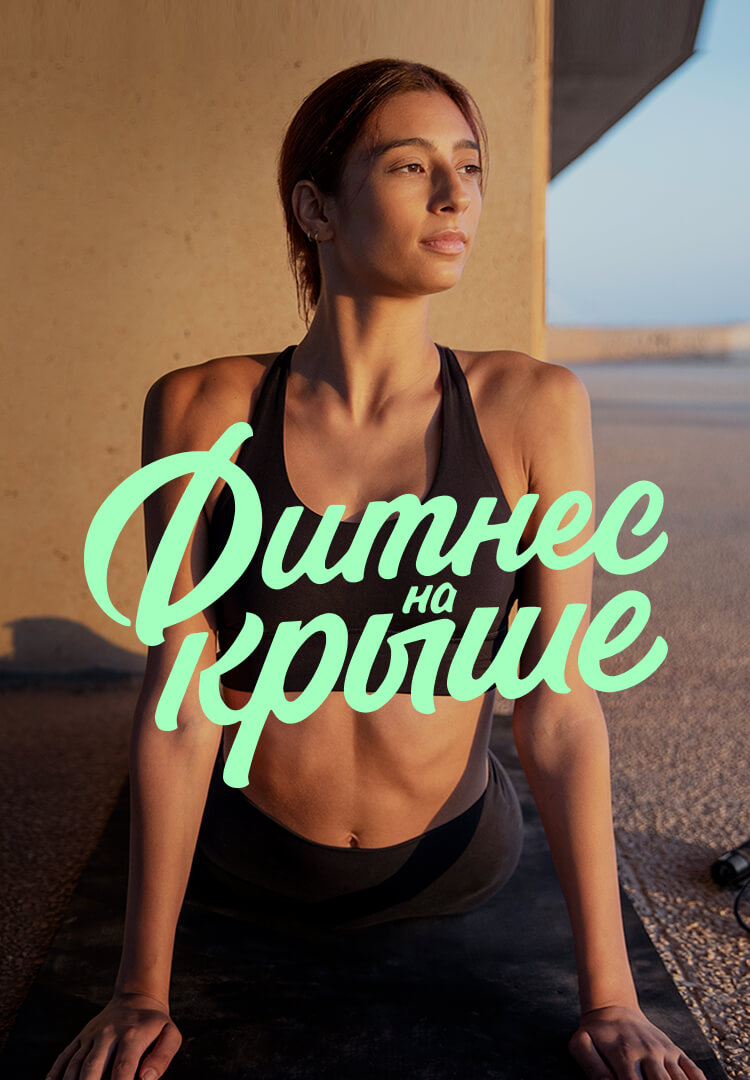
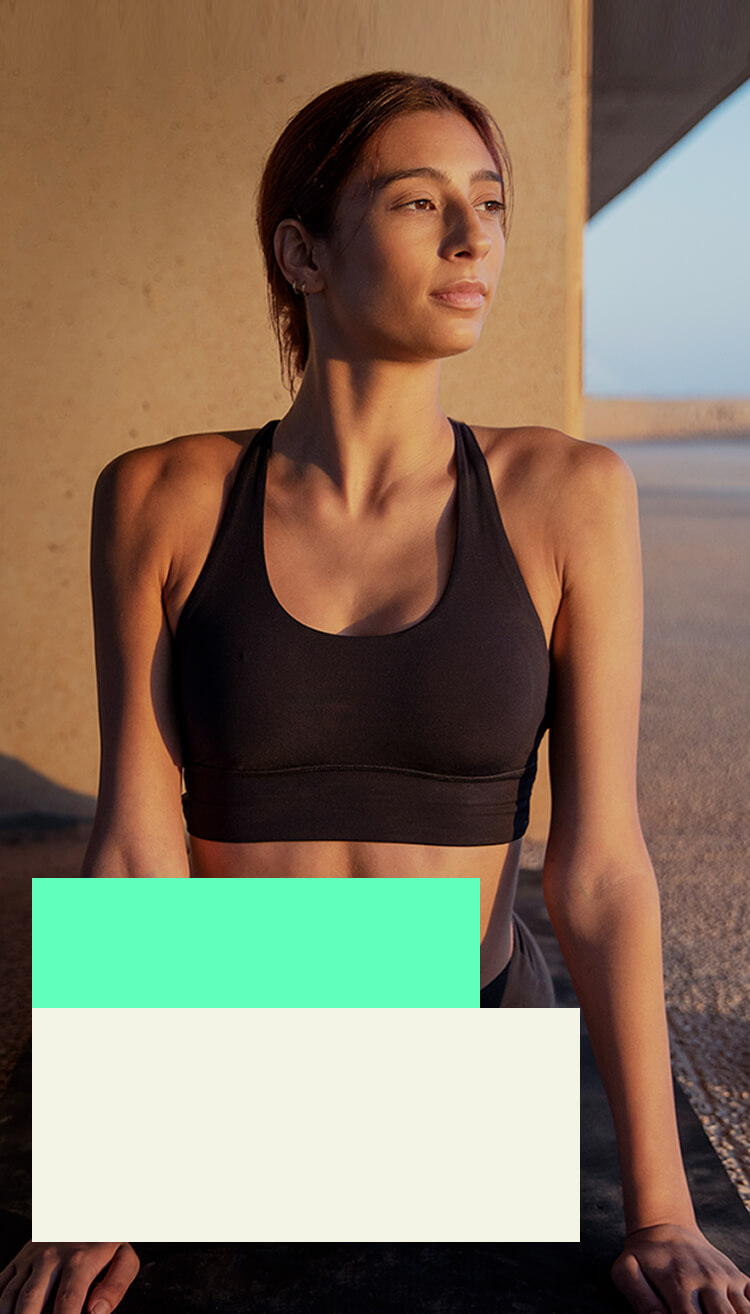
style: обновляет дизайн главного экрана

diff --git a/src/components/Sections/Main.vue b/src/components/Sections/Main.vue
@@ -2,21 +2,34 @@
   <div class="main-block">
     <div class="wrapper">
       <div class="banner">
+        <div class="banner__title-wrap">
+          <h1 class="banner__title">Фитнес<br>на крыше</h1>
+        </div>
+        <div class="banner__period-wrap">
+          <p class="banner__period">июнь-сент</p>
+        </div>
+        <div class="banner__text-wrap" v-if="grid.md">
+          <p class="banner__text">
+            <span class="banner__text-l1">каждый день</span>
+            <span class="banner__text-l2">бесплатные занятия</span>
+            <span class="banner__text-l3">вместе</span>
+            <span class="banner__text-l4">с F-team</span>
+          </p>
+        </div>
         <picture>
           <source media="(max-width: 767.9px)" width="750" height="1080" srcset="@/assets/images/banner-sm.jpg" />
           <source media="(min-width: 768px)" width="2011" height="1131" srcset="@/assets/images/banner.jpg" />
           <img class="banner__img" src="@/assets/images/banner.jpg" width="2011" height="1131" alt="Фитнес на Крыше">
         </picture>
-        <div class="order-wrap">
-          <BaseButton class="order" @click="$order.show">Записаться</BaseButton>
-        </div>
       </div>
-      <h1 class="title" v-if="grid.lg">
-        Каждый день на крыше Планеты бесплатные занятия вместе с F-team
-      </h1>
-      <h1 class="title" v-else>
-        Каждый день бесплатные занятия вместе с F-team
-      </h1>
+      <div v-if="!grid.md" class="banner__text-sm-wrap">
+        <p class="banner__text-sm">
+          каждый день<br>бесплатные занятия<br>вместе с F-team<br>на крыше Планеты
+        </p>
+      </div>
+      <div class="order-wrap">
+        <BaseButton class="order" @click="$order.show">Записаться</BaseButton>
+      </div>
     </div>
   </div>
 </template>
@@ -29,64 +42,123 @@
 
 <style scoped lang="scss">
   .order-wrap {
-    position: absolute;
-    left: 0;
-    bottom: 0;
     width: 100%;
-    z-index: 10;
-    padding-bottom: 75px;
     text-align: center;
-
-    @include md {
-      padding-bottom: 30px;
-    }
   }
 
   .order {
     width: 100%;
-    max-width: 250px;
+    max-width: 365px;
   }
 
   .banner {
     position: relative;
     border-radius: 50px;
     overflow: hidden;
-    margin-bottom: 95px;
+    margin-bottom: 50px;
 
     @include md {
-      margin-bottom: 50px;
-    }
-
-    @include sm {
-      margin: 0 -16px 50px;
       border-radius: 40px;
-    }
-  }
-
-  .banner__img {
-    width: 100%;
-  }
-
-  .title {
-    font-weight: 400;
-    font-size: 34px;
-    line-height: 1.25;
-    letter-spacing: var(--lett-sp-sm);
-    color: var(--color-text-dark);
-    max-width: 604px;
-    margin: 0 auto;
-    text-align: center;
-
-    @include md {
-      font-size: 30px;
-      max-width: 580px;
+      margin-bottom: 30px;
     }
 
     @include sm {
-      font-size: 24px;
+      margin: 0 -16px 20px;
+      border-radius: 24px;
+    }
+
+    &__img {
+      width: 100%;
+    }
+
+    &__text-sm-wrap {
+      margin-bottom: 24px;
+    }
+
+    &__text-sm {
+      padding-left: 24px;
+      font-weight: 400;
+      font-size: 20px;
+      line-height: 1.2;
+      letter-spacing: 0.03em;
+    }
+
+    &__title-wrap {
+      position: absolute;
+      right: 17%;
+      bottom: 10.8%;
+
+      @include sm {
+        left: 12.6%;
+        bottom: 7.6%;
+      }
+    }
+
+    &__title {
+      font-weight: 600;
+      letter-spacing: 0.02em;
+      line-height: 1;
+      font-size: clamp(30px, 5.2vw, 103px);
+
+      @include sm {
+        font-size: clamp(32px, 11.7vw, 90px);
+      }
+    }
+
+    &__period-wrap {
+      position: absolute;
+      left: 30%;
+      bottom: 8.6%;
+
+      @include sm {
+        left: 13%;
+        bottom: 26%;
+      }
+    }
+
+    &__period {
+      font-weight: 500;
+      line-height: 1.2;
+      font-size: clamp(20px, 3.7vw, 75px);
+
+      @include sm {
+        line-height: 1;
+        font-weight: 600;
+        font-size: clamp(18px, 8vw, 62px);
+      }
+    }
+
+    &__text-wrap {
+      position: absolute;
+      left: 6%;
+      bottom: 9.5%;
+    }
+
+    &__text {
+      font-weight: 400;
       line-height: 1.1;
-      max-width: 275px;
-      letter-spacing: -0.01em;
+      letter-spacing: 0.03em;
+      font-size: clamp(16px, 2.5vw, 50px);
+      color: var(--color-white);
+
+      &-l1, &-l2, &-l3, &-l4 {
+        display: block;
+        width: fit-content;
+      }
+
+      &-l1 {
+        padding-left: 1.64em;
+      }
+
+      &-l2 {}
+
+      &-l3 {
+        padding-left: 0.58em;
+      }
+
+      &-l4 {
+        padding-left: 1.86em;
+      }
     }
   }
 </style>